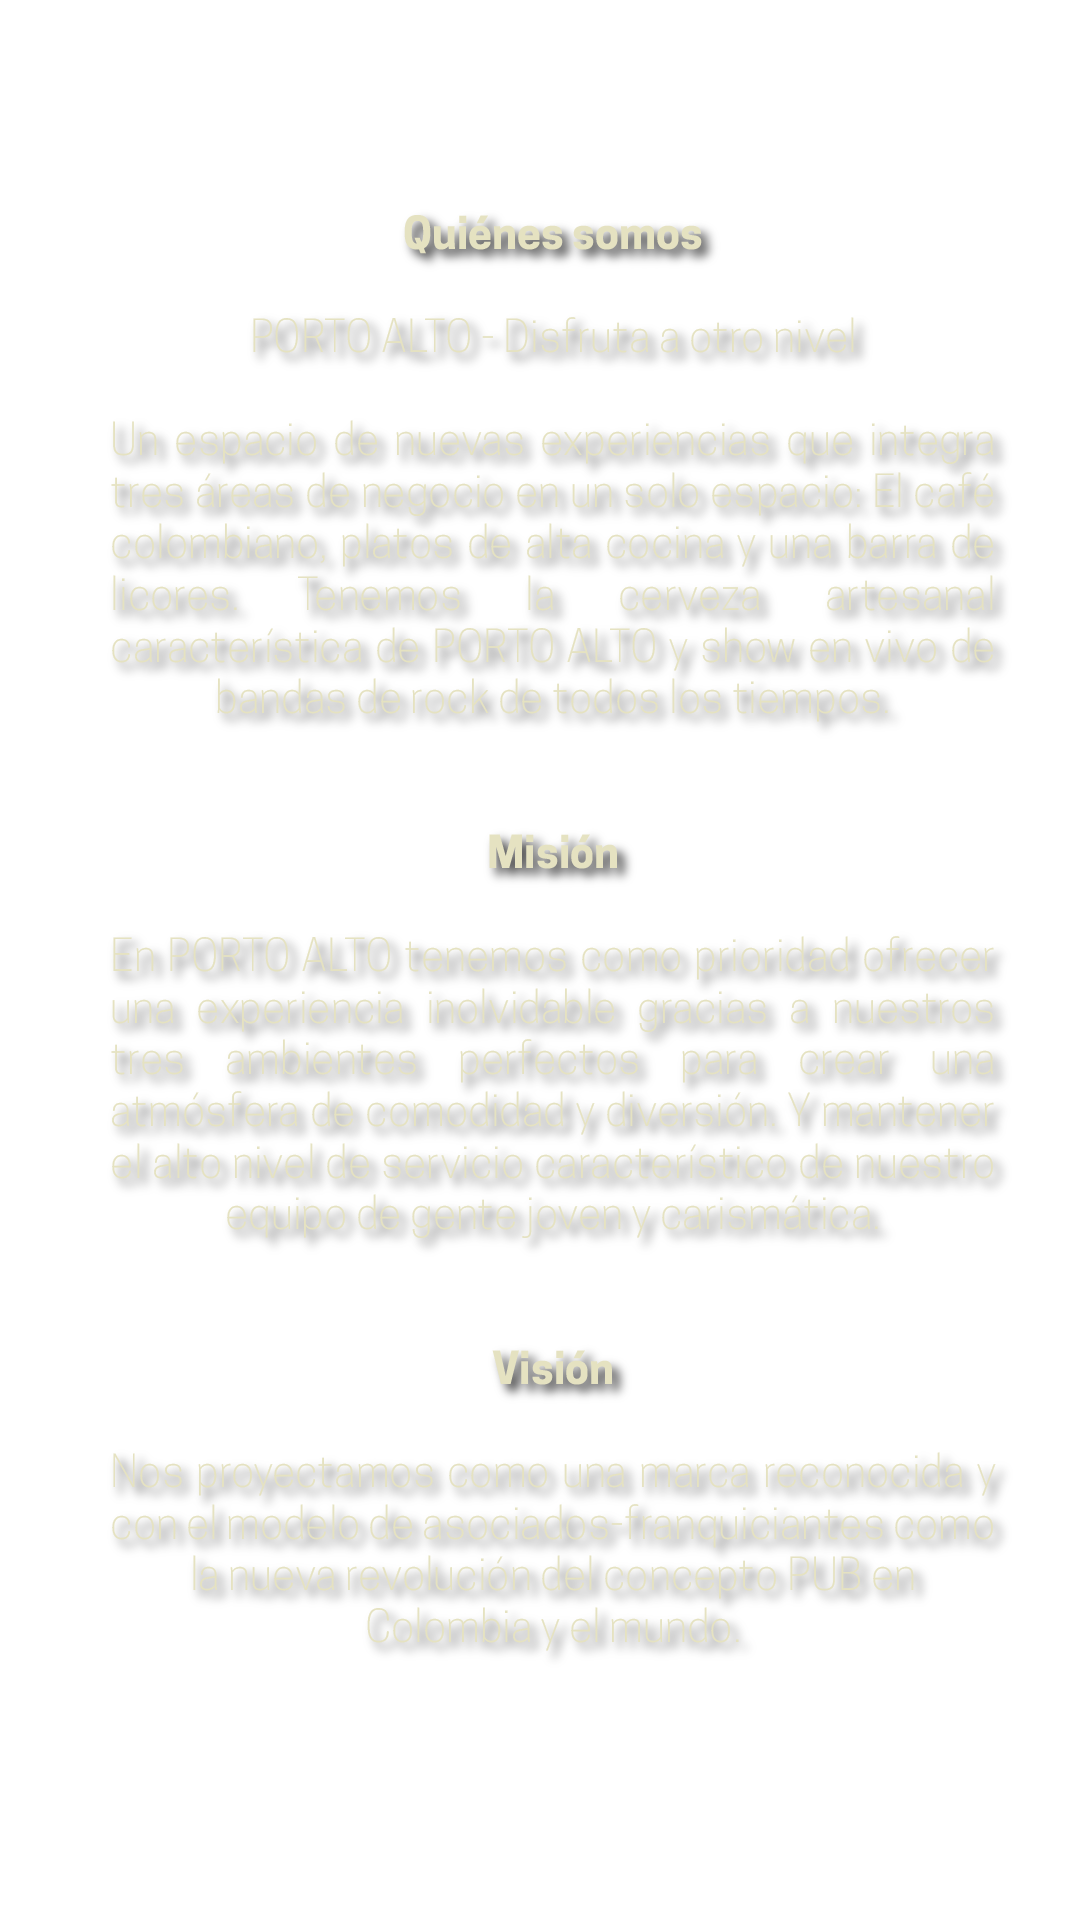
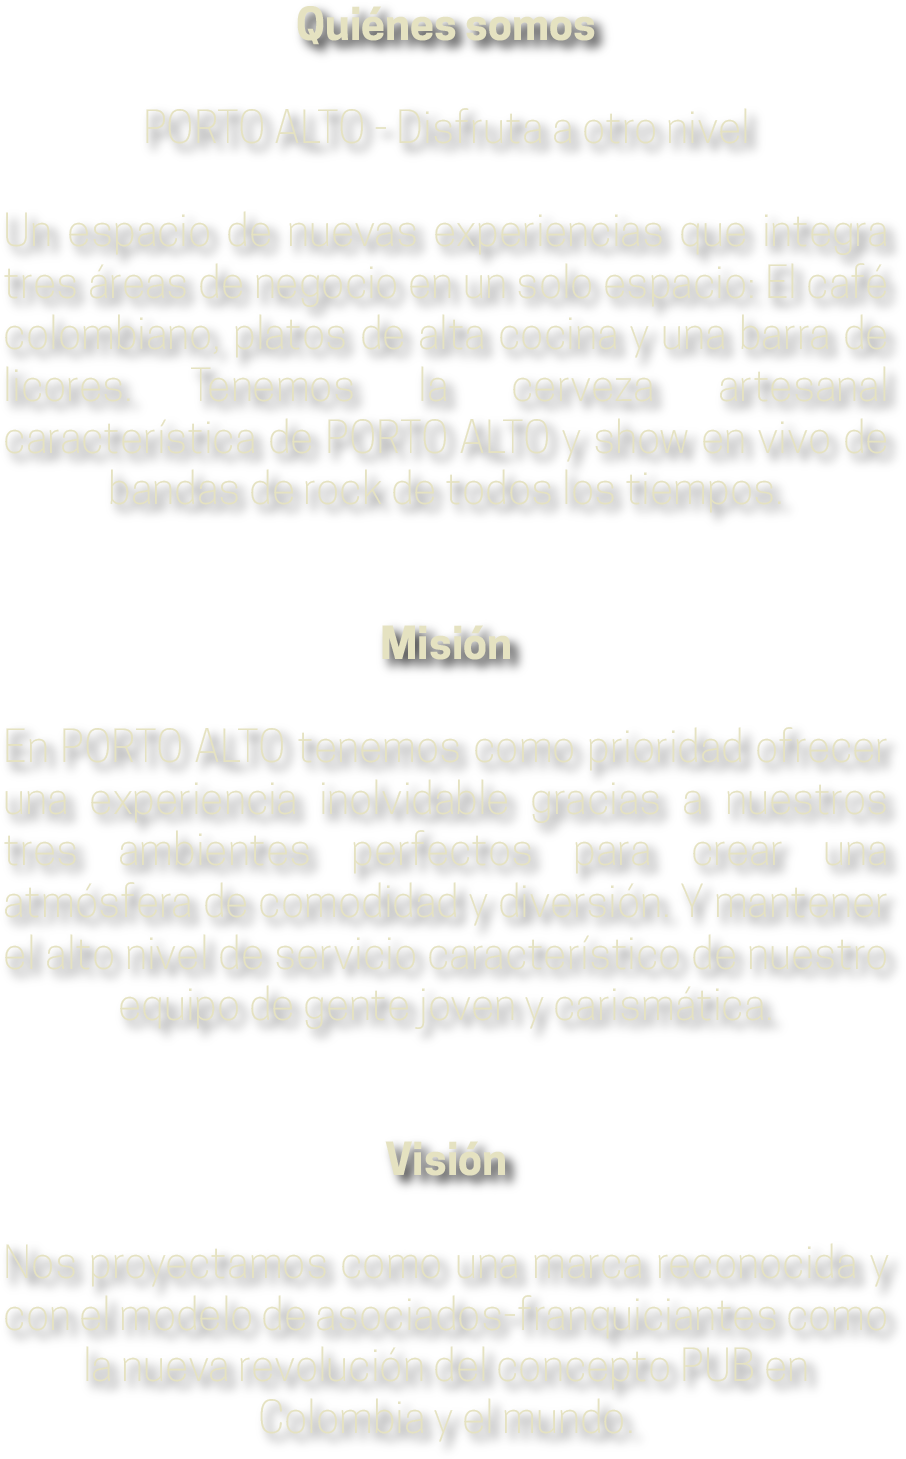
se ajusta el tamaño de las imagenes

Changed region(s): [[0.0, 0.4626, 0.989, 0.987], [0.0, 0.0, 0.989, 0.401], [0.4018, 0.4318, 0.5872, 0.4626]]

diff --git a/www/partials/mireserva.html b/www/partials/mireserva.html
@@ -4,7 +4,7 @@
         <hr>
     </div>
 </div>
-<div class="row">
+<div class="row" style="padding:15px;">
     <div class="col-lg-12 texto_div">
         <div data-role="controlgroup" id="datosult_reserva"></div>
     </div>
@@ -13,7 +13,7 @@
         <a type="button" ng-click="cancelar()" class="btnporto">Cancelar Reserva</a>
     </div>
 </div>
-<div class="row" style="color: #e8e4c4; font-size: 10px">
+<div class="row" style="color: #e8e4c4; font-size: 10px;padding:15px;">
     <p>Para garantizar su reserva, el consumo mínimo debe ser no inferior a 30.000 pesos por persona.</p>
     <br>
 </div>

diff --git a/www/partials/pasoporto.html b/www/partials/pasoporto.html
@@ -4,7 +4,7 @@
         <hr>
     </div>
 </div>
-<div class="row">
+<div class="row" style="padding:15px;">
     <div class="col-lg-12 text-justify texto_div">
         <p>En Porto Alto queremos que nuestros clientes disfruten un servicio de altura. Con los beneficios de cliente Pasaporto podrás obtener el 8% de descuento en tu consumo y mucho más</p>
         <p>Solo debes presentar tu tarjeta Pasaporto en físico o código QR de identificación digital Pasaporto al cancelar tu cuenta ¡y listo!</p>

diff --git a/www/js/eventoCtrl.js b/www/js/eventoCtrl.js
@@ -1,12 +1,12 @@
 module.controller('eventoCtrl', ['$scope', '$http', function ($scope, $http) {
     
-    
+    $("html, body").animate({ scrollTop: 0 }, 600);
     baseController($scope, $localStorage);
     $scope.myFunction(false);
     
     $scope.url = "http://www.movil.portoalto.com.co/webservice.php?opc=13";
     $scope.eventos;
-    $("html, body").animate({ scrollTop: 0 }, 600);
+    
     
     $scope.loadinfo = function () {
         $('#msgEsperaM').html("Consultado...");

diff --git a/www/portoalto.html b/www/portoalto.html
@@ -61,7 +61,7 @@
         </div>
 
         <div id="page-content-wrapper">
-            <div class="container-fluid" ng-view></div>
+            <div class="container-fluid" style="padding:0px;" ng-view></div>
             <div class="footer">
                 <img src="img/oporto.png" height="25px" width="25px" style="background: transparent; align-content: 'center';" />Porto
                 Alto v 1.0.0

diff --git a/www/partials/mipasoporto.html b/www/partials/mipasoporto.html
@@ -4,7 +4,7 @@
         <hr>
     </div>
 </div>
-<div class="row">
+<div class="row" style="padding:15px;">
     <div class="col-lg-12 text-center texto_div">
         <p>Bienvenid@ {{object.nombres}}</p><br>
         <qr text="string"></qr><br>

diff --git a/www/partials/reserva.html b/www/partials/reserva.html
@@ -1,4 +1,4 @@
-<div class="row">
+<div class="row" style="padding:15px;">
     <div class="col-lg-12">
         <form>
             <div class="form-group" ng-class="{'obligatorio': errores.tdecoracion}">
